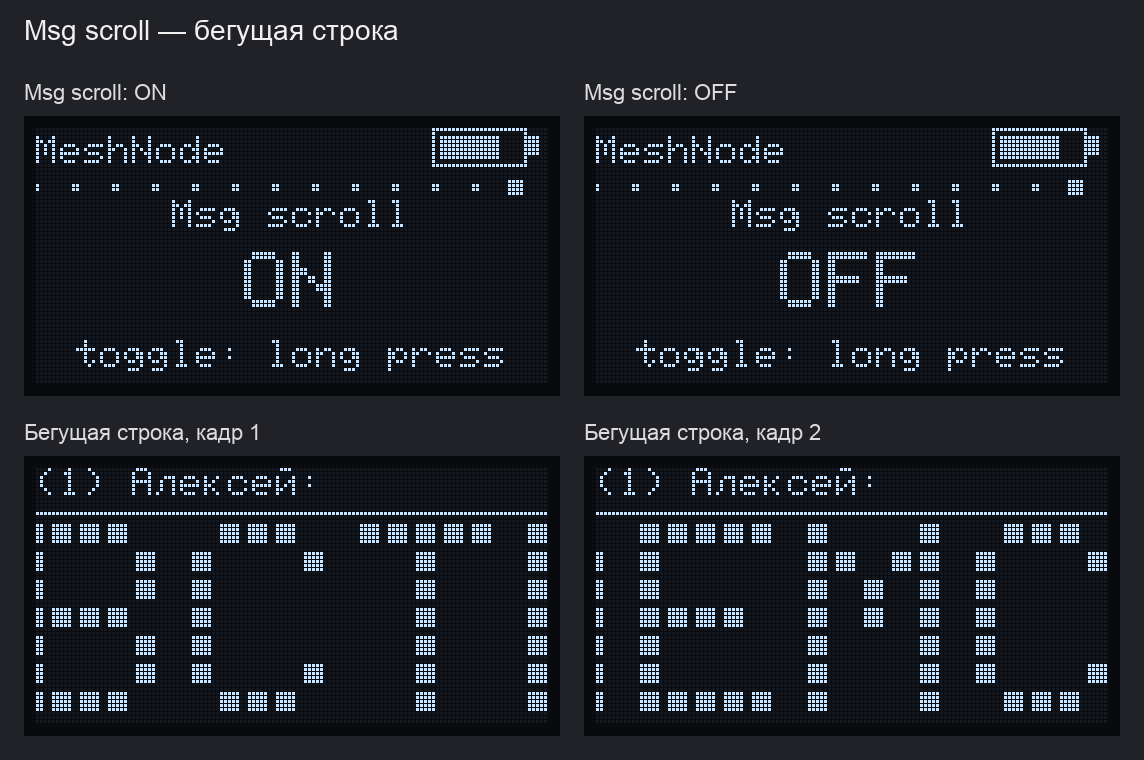
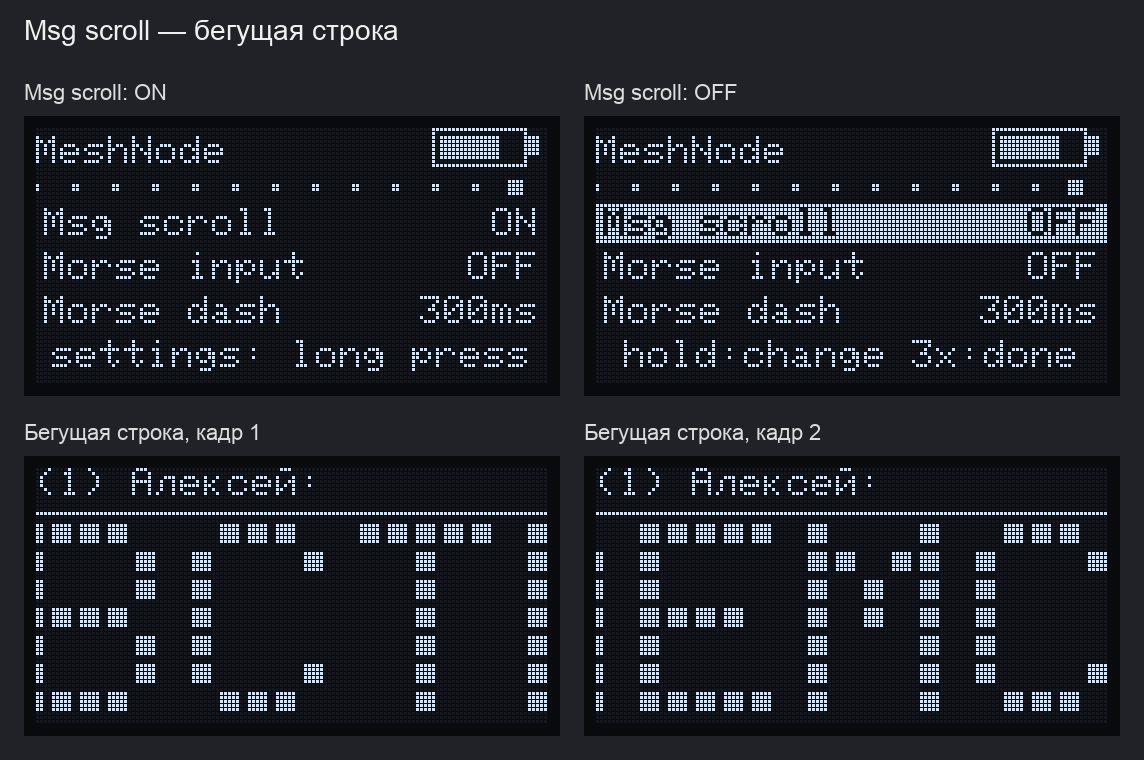
README и картинки: морзе, настройки сообщений.

diff --git a/tools/screen_render/render_compose.py b/tools/screen_render/render_compose.py
@@ -116,26 +116,119 @@ def layout_phrases(d, ph):
     return slots, page + 1
 
 
-def scr_phrases(d, lang="en", target="#Squad North", sel=0):
+def scr_phrases(d, lang="en", target="#Squad North", sel=0, morse=False):
     L = LANG[lang]
     ph = L["phrases"]
     slots, pages = layout_phrases(d, ph)
-    page = 0 if sel == 0 else slots[sel - 1][0]
+    fp = 2 if morse else 1
+    page = 0 if sel < fp else slots[sel - fp][0]
     title(d, target, "%d/%d" % (page + 1, pages))
     w = d.width()
     half = w // 2
     if page == 0:
-        cell(d, 2, 15, w - 4, L["keyboard"], sel == 0, True)
+        if morse:
+            cell(d, 2, 15, half - 4, "клавиши" if lang == "ru" else "keys", sel == 0, True)
+            cell(d, half + 2, 15, half - 4, "морзе" if lang == "ru" else "morse", sel == 1, True)
+        else:
+            cell(d, 2, 15, w - 4, L["keyboard"], sel == 0, True)
     for i, p in enumerate(ph):
         pg, row, col, wide = slots[i]
         if pg != page:
             continue
         y = 15 + row * 12
         if wide:
-            cell(d, 2, y, w - 4, p, sel == i + 1, True)
+            cell(d, 2, y, w - 4, p, sel == i + fp, True)
         else:
-            cell(d, col * half + 2, y, half - 4, p, sel == i + 1, True)
+            cell(d, col * half + 2, y, half - 4, p, sel == i + fp, True)
 
+
+def scr_msg_settings(d, edit=False, row=0, scroll=True, morse=True, dash=300):
+    ro.home_header(d, "TICKER")
+    w = d.width()
+    rows = [("Msg scroll", "ON" if scroll else "OFF"), ("Morse input", "ON" if morse else "OFF"),
+            ("Morse dash", "%dms" % dash)]
+    d.setTextSize(1)
+    for i, (l, r) in enumerate(rows):
+        y = 20 + i * 11
+        d.setColor(WHITE)
+        if edit and i == row:
+            d.fillRect(0, y - 1, w, 10); d.setColor(BLACK)
+        d.setCursor(2, y); d.print(l)
+        d.setCursor(w - 2 - d.getTextWidth(r), y); d.print(r)
+    d.setColor(WHITE)
+    d.drawTextCentered(w // 2, 64 - 11, "hold:change 3x:done" if edit else "settings: " + ro.PRESS_LABEL)
+
+
+MORSE_RU = [(".-", "а"), ("-...", "б"), (".--", "в"), ("--.", "г"), ("-..", "д"), (".", "е"),
+            ("...-", "ж"), ("--..", "з"), ("..", "и"), (".---", "й"), ("-.-", "к"), (".-..", "л"),
+            ("--", "м"), ("-.", "н"), ("---", "о"), (".--.", "п"), (".-.", "р"), ("...", "с"),
+            ("-", "т"), ("..-", "у"), ("..-.", "ф"), ("....", "х"), ("-.-.", "ц"), ("---.", "ч"),
+            ("----", "ш"), ("--.-", "щ"), ("--.--", "ъ"), ("-.--", "ы"), ("-..-", "ь"), ("..-..", "э"),
+            ("..--", "ю"), (".-.-", "я")]
+MORSE_EN = [(".-", "a"), ("-...", "b"), ("-.-.", "c"), ("-..", "d"), (".", "e"), ("..-.", "f"),
+            ("--.", "g"), ("....", "h"), ("..", "i"), (".---", "j"), ("-.-", "k"), (".-..", "l"),
+            ("--", "m"), ("-.", "n"), ("---", "o"), (".--.", "p"), ("--.-", "q"), (".-.", "r"),
+            ("...", "s"), ("-", "t"), ("..-", "u"), ("...-", "v"), (".--", "w"), ("-..-", "x"),
+            ("-.--", "y"), ("--..", "z")]
+
+
+def scr_morse(d, lang="ru", target="@Алексей", text="", code="", live=None, note=None, warn=False,
+              crib=0, tip=0, dash=300):
+    """Morse entry: the text line, the code being keyed, what it means, hints."""
+    tbl = dict(MORSE_RU if lang == "ru" else MORSE_EN)
+    ru = lang == "ru"
+    w = d.width()
+    count = str(len(text))
+    if not text:
+        title(d, "to " + target, count)
+    else:
+        d.setTextSize(1); d.setColor(WHITE)
+        d.setCursor(w - d.getTextWidth(count) - 1, 0); d.print(count)
+        d.setCursor(0, 0); d.print(d.translate(text + "_", 64))
+        d.drawRect(0, 11, w, 1)
+    d.setColor(WHITE)
+    x = 2
+    for ch in code:
+        ww = 12 if ch == "-" else 4
+        d.fillRect(x, 17, ww, 4); x += ww + 4
+    cur = code
+    if live is not None:
+        ww = 12 if live else 4
+        d.drawRect(x, 17, ww, 4); x += ww + 4
+        cur += "-" if live else "."
+    if cur:
+        now = tbl.get(cur, "?")
+        line = "= " + now
+        tw = d.getTextWidth(d.translate(line, 20))
+        d.setCursor(w - tw - 1, 15); d.print(d.translate(line, 20))
+        a, b = tbl.get(cur + ".", "-"), tbl.get(cur + "-", "-")
+        d.drawTextCentered(w // 2, 27, d.translate("+. %s   +- %s" % (a, b), 40))
+    else:
+        d.drawTextCentered(w // 2, 15, d.translate(
+            ("точка < %d мс < тире" if ru else "dot < %dms < dash") % dash, 40))
+        d.drawTextCentered(w // 2, 27, d.translate("держать 2 с: выход" if ru else "hold 2s: exit", 40))
+    if note:
+        d.drawTextCentered(w // 2, 39, d.translate(note, 48))
+    else:
+        items = (MORSE_RU if ru else MORSE_EN)[crib * 3:crib * 3 + 3]
+        d.drawTextCentered(w // 2, 39, d.translate(" ".join(o + c for c, o in items), 48))
+    tips = ([".-.-. отправить", "-...- пробел", "........ стереть", "пауза: пробел"] if ru
+            else [".-.-. send", "-...- space", "........ erase", "long pause: space"])
+    d.drawTextCentered(w // 2, 52, d.translate(tips[tip], 40))
+
+
+MORSE_SCREENS = [
+    ("90_msg_settings", "Настройки: удержание — открыть", scr_msg_settings),
+    ("91_msg_settings_edit", "Морзе вкл/выкл", lambda d: scr_msg_settings(d, True, 1)),
+    ("92_msg_settings_dash", "Порог тире: 200…800 мс", lambda d: scr_msg_settings(d, True, 2)),
+    ("93_phrases_morse", "Рядом с клавишами — морзе", lambda d: scr_phrases(d, "ru", "@Алексей", sel=1, morse=True)),
+    ("94_morse_idle", "Морзе: подсказки и азбука", lambda d: scr_morse(d, crib=5)),
+    ("95_morse_keying", "Нажато .-. — это «р»", lambda d: scr_morse(d, text="пр", code=".-.", tip=1)),
+    ("96_morse_live", "Держите дольше 300 мс — тире", lambda d: scr_morse(d, text="пр", code=".-", live=1, tip=2)),
+    ("97_morse_unknown", "Такого знака нет: ничего не вписано",
+     lambda d: scr_morse(d, text="привет", note="..--.- ? нет знака", tip=0)),
+    ("98_morse_en", "set lang en: латиница", lambda d: scr_morse(d, "en", "@Alexey", text="hi", code="--.", tip=0)),
+]
 
 NEIGHBORS = [("Repeater South", 9.25), ("Hill-2", 4.75), ("A3F09C12", -3.25), ("Bridge", -8.75),
              ("Tower East", -10.5), ("Base Camp", -12.0), ("Fox", -14.25)]
@@ -330,8 +423,8 @@ NEIGHBOR_SCREENS = [
 ]
 
 TICKER_SCREENS = [
-    ("50_ticker_on", "Msg scroll: ON", scr_ticker_page),
-    ("51_ticker_off", "Msg scroll: OFF", lambda d: scr_ticker_page(d, False)),
+    ("50_ticker_on", "Msg scroll: ON", lambda d: scr_msg_settings(d, morse=False)),
+    ("51_ticker_off", "Msg scroll: OFF", lambda d: scr_msg_settings(d, True, 0, scroll=False, morse=False)),
 ]
 
 # ------------------------------------------------------------ running line
@@ -492,6 +585,15 @@ def main():
         im.save(os.path.join(out, "sent", fname + ".png"))
         sitems.append((label, im))
     sheet(sitems, 2, "Sent — отправленные с устройства").save(os.path.join(out, "gallery_sent.png"))
+
+    mitems = []
+    os.makedirs(os.path.join(out, "morse"), exist_ok=True)
+    for fname, label, fn in MORSE_SCREENS:
+        d = Dev(); fn(d)
+        im = to_image(d)
+        im.save(os.path.join(out, "morse", fname + ".png"))
+        mitems.append((label, im))
+    sheet(mitems, 3, "Морзе и настройки сообщений").save(os.path.join(out, "gallery_morse.png"))
 
     titems = []
     for fname, label, fn in TICKER_SCREENS:

diff --git a/README.md b/README.md
@@ -10,6 +10,7 @@
 | Написать и отправить сообщение без телефона | — | ✅ в канал или избранному контакту |
 | Готовые фразы | — | ✅ 18 фраз на трёх экранах, по-русски или по-английски, любую можно заменить командой |
 | Русская клавиатура | — | ✅ при `set lang ru` (по умолчанию), английская при `set lang en` |
+| Ввод азбукой Морзе | — | ✅ русской или латинской по языку, включается рядом с Msg scroll |
 | Отметка «Delivered» для личных сообщений с устройства | — | ✅ и повтор отправки удержанием, если ответа нет |
 | Ответ на входящее с устройства | — | ✅ удержание в окне сообщения, `RE` в заголовке |
 | Последние адресаты вверху списка | — | ✅ три последних |
@@ -34,14 +35,23 @@
 
 ### Как выключить
 
-После прошивки бегущая строка **включена**. Чтобы выключить:
+После прошивки бегущая строка **включена**. Она выключается на странице настроек сообщений. Там же включается ввод азбукой Морзе — см. [Морзе](#морзе-ввод-одной-кнопкой).
 
-1. Короткими нажатиями листайте страницы до **Msg scroll** — она предпоследняя, перед страницей выключения.
-2. Сделайте **долгое нажатие**. На экране появится `Msg scroll: OFF`.
+1. Короткими нажатиями листайте страницы до страницы с `Msg scroll`, `Morse input` и `Morse dash`. Она предпоследняя, перед страницей выключения.
+2. **Долгое нажатие** открывает настройки: строка под курсором выделяется.
+3. Нажатием дойдите до `Msg scroll` (она первая) и сделайте **долгое нажатие**: `ON` сменится на `OFF`.
+4. **Три нажатия** закрывают настройки.
+
+| Кнопка | На странице настроек |
+|---|---|
+| Долгое нажатие | Открыть настройки, затем изменить строку под курсором |
+| Одно нажатие | Следующая строка |
+| Два нажатия | Предыдущая строка |
+| Три нажатия | Закрыть настройки |
 
 Бегущая строка ничего не отмечает прочитанным: сообщение считается прочитанным только после нажатий в окне сообщения.
 
-Новые сообщения после выключения открываются сразу обычным окном. Включить снова — ещё одно долгое нажатие на той же странице (`Msg scroll: ON`). Выбор сохраняется после перезагрузки. Пока строка включена, каждое новое сообщение будит экран.
+Новые сообщения после выключения открываются сразу обычным окном. Выбор сохраняется после перезагрузки. Пока строка включена, каждое новое сообщение будит экран.
 
 <p align="center">
   <img src="docs/screens/ticker/50_ticker_on.png" alt="Msg scroll: ON" width="400">
@@ -184,6 +194,52 @@ set lang ru                    set lang en
 </p>
 
 Отправленные с устройства сообщения не попадают в историю чата в приложении на телефоне. Их видно на странице [Sent](#sent-что-отправлено-с-устройства).
+
+## Морзе: ввод одной кнопкой
+
+Текст можно набирать азбукой Морзе: короткое нажатие — точка, длинное — тире. Азбука следует языку: при `set lang ru` русская, при `set lang en` латинская. Цифры и знаки `. , ? ! :` есть в обеих.
+
+### Как включить
+
+На странице настроек сообщений (там же, где `Msg scroll`) два пункта:
+
+- `Morse input` — `ON` / `OFF`. После прошивки выключен.
+- `Morse dash` — с какой длины нажатие считается тире. Каждое долгое нажатие переключает: 200, 250, 300, 350, 400, 500, 600, 800 мс. По умолчанию 300 мс. Если тире у вас то и дело превращаются в точки, увеличьте значение; если точки становятся тире — уменьшите.
+
+То же самое командами в Console или по кабелю: `set morse on`, `set morse off`, `set morse.dash 350` (от 100 до 1000 мс).
+
+Когда морзе включено, на первом экране фраз вместо одной кнопки `клавиатура` две: `клавиши` и `морзе`.
+
+### Как набирать
+
+| Что сделать | Что получится |
+|---|---|
+| Нажатие короче порога | Точка |
+| Нажатие длиннее порога | Тире |
+| Пауза в 2 порога (600 мс при 300) | Буква закончена и вписана в текст |
+| Пауза в 5 порогов (1,5 с при 300) | Пробел |
+| `-...-` | Пробел сразу, без ожидания |
+| `........` (7–8 точек) | Стереть последнюю букву |
+| `.-.-.` | Отправить сообщение |
+| Удержание 2 с | Выйти к фразам. Набранный текст остаётся, его можно дописать на клавиатуре |
+
+Набор можно смешивать: начать морзе, выйти, дописать на клавиатуре и отправить там.
+
+### Что видно на экране
+
+- **Сверху** — набранный текст и число букв, как на клавиатуре.
+- **Строка 1** — точки и тире текущей буквы. Пока кнопка нажата, последний знак нарисован контуром: он сам вырастает из точки в тире, когда нажатие переходит порог. Справа — что получится, если отпустить сейчас: `= р`.
+- **Строка 2** — что даст ещё одна точка или тире: `+. л   +- я`. Так видно, куда ведёт набор, и не нужно помнить всю азбуку.
+- **Строка 3** — азбука по три буквы, сменяется каждые 2,5 секунды: `а.- б-... в.--`.
+- **Строка 4** — служебные сигналы по очереди: отправить, пробел, стереть.
+
+### Если знак не распознан
+
+Если набрана комбинация, которой нет в азбуке, **в текст ничего не вписывается**. Вместо азбуки на 3 секунды появляется то, что устройство приняло, и пометка: `..--.- ? нет знака`. Так видно, где ошибка: лишняя точка, тире вместо точки или слишком короткая пауза склеила две буквы. Уже во время набора справа видно `= ?`, если такой буквы пока нет. Тогда можно дождаться паузы и набрать букву заново. Если ошибочная буква всё же вписалась, сотрите её семью-восемью точками.
+
+<p align="center">
+  <img src="docs/screens/gallery_morse.png" alt="Морзе: настройки, ввод, подсказки, нераспознанный знак" width="900">
+</p>
 
 ## Sent: что отправлено с устройства
 

diff --git a/.github/release-notes.md b/.github/release-notes.md
@@ -2,9 +2,13 @@
 
 ## Что нового в v1.17.1-0.1.9
 
-- **Клавиатура: новые нажатия.** 1 — вправо, 2 — влево, 3 — вниз, 4 — вверх, 5 — выход без отправки, удержание — ввести клавишу. В списках всё как раньше.
-- **Третий экран фраз:** `погода сегодня`, `погода завтра`, `Курс`, `луна` (`weather today`, `weather tomorrow`, `rate`, `moon`). Длинная фраза занимает всю строку и видна целиком.
-- **Свои фразы командами** в контакте Console или по кабелю: `set phrase 15 погода сегодня` заменяет фразу № 15, `set phrase 15` возвращает стандартную, `phrases 1|2|3` показывает фразы с номерами. Сохраняются в памяти устройства.
+- **Ввод азбукой Морзе.** Короткое нажатие — точка, длинное — тире. Азбука по языку: русская при `set lang ru`, латинская при `set lang en`. `.-.-.` — отправить, `-...-` — пробел, 7–8 точек — стереть букву, удержание 2 с — выход. На экране видно, какая буква получится сейчас, что даст ещё точка или тире, и бегущая шпаргалка азбуки. Нераспознанная комбинация не вписывается: показывается `..--.- ? нет знака`.
+- **Настройки сообщений на одной странице:** `Msg scroll`, `Morse input` и `Morse dash` (200–800 мс). Долгое нажатие открывает и меняет, три нажатия закрывают. Или командами `set morse on|off`, `set morse.dash 350`.
+- **Клавиатура: новые нажатия.** 1 — вправо, 2 — влево, 3 — вниз, 4 — вверх, 5 — выход без отправки.
+- **Третий экран фраз:** `погода сегодня`, `погода завтра`, `Курс`, `луна`. Длинная фраза занимает всю строку.
+- **Свои фразы командами:** `set phrase 15 погода сегодня`, `set phrase 15` — вернуть стандартную, `phrases 1|2|3` — список с номерами.
+
+![Морзе](https://raw.githubusercontent.com/vladkondratyev/meshcore/main/docs/screens/gallery_morse.png)
 
 ![Фразы](https://raw.githubusercontent.com/vladkondratyev/meshcore/main/docs/screens/gallery_write_ru.png)
 
@@ -22,7 +26,7 @@
 
 ## Отличия от TERMIN36
 
-- **Бегущая строка (Msg scroll)** — включена сразу, выключается долгим нажатием на странице Msg scroll.
+- **Бегущая строка (Msg scroll)** — включена сразу, выключается на странице настроек сообщений (Msg scroll).
 - **Write** — сообщение с устройства в канал или избранному контакту: готовые фразы или свой текст, русская и английская клавиатура, отметка `Delivered` для личных, ответ на входящее, список отправленных (Sent).
 
 ## Какой файл брать
